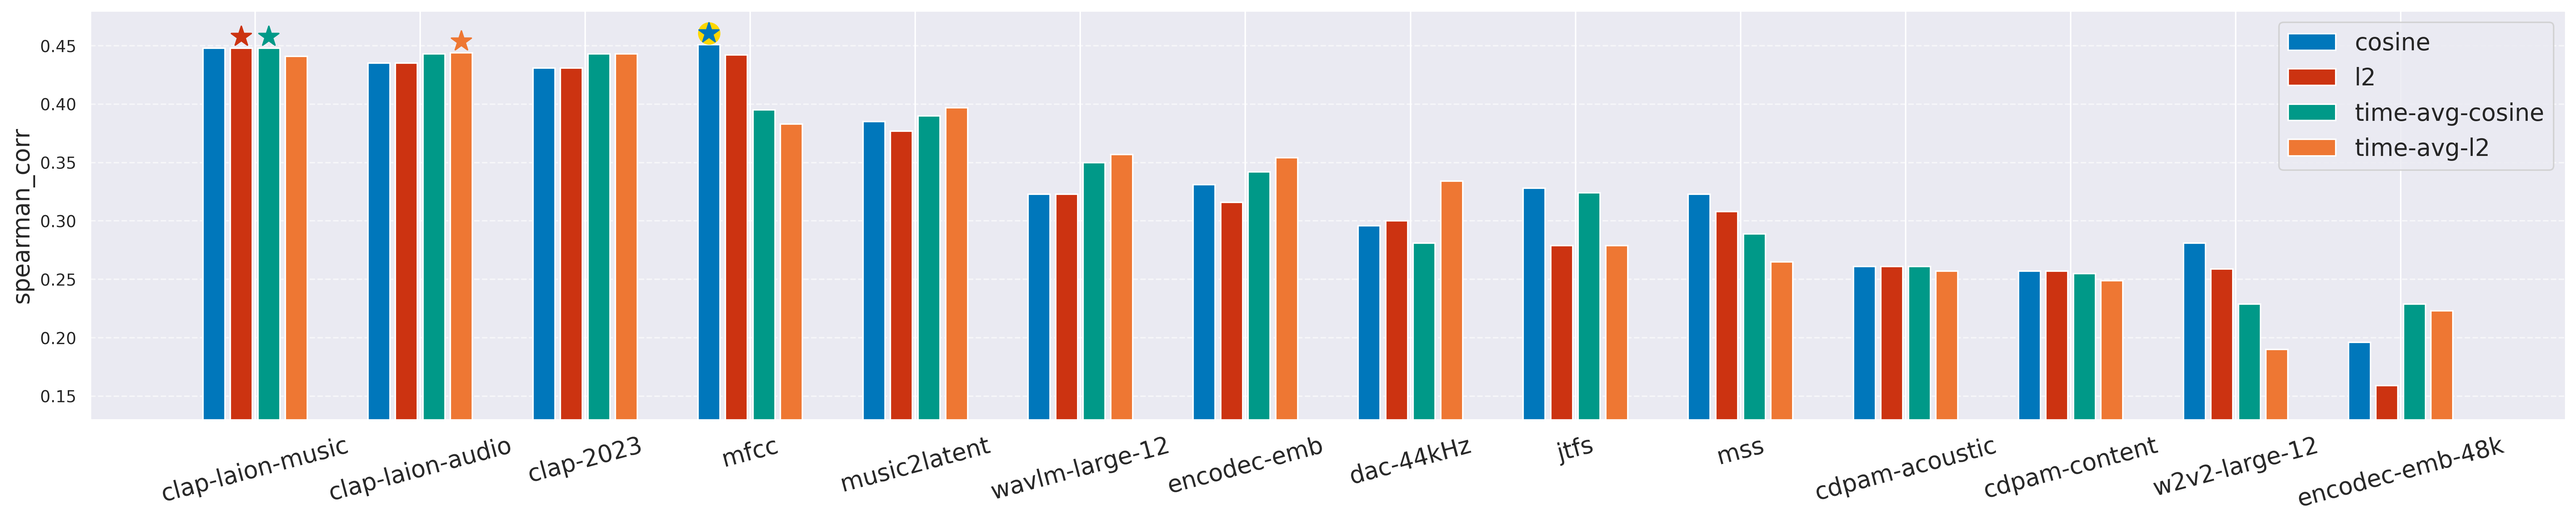
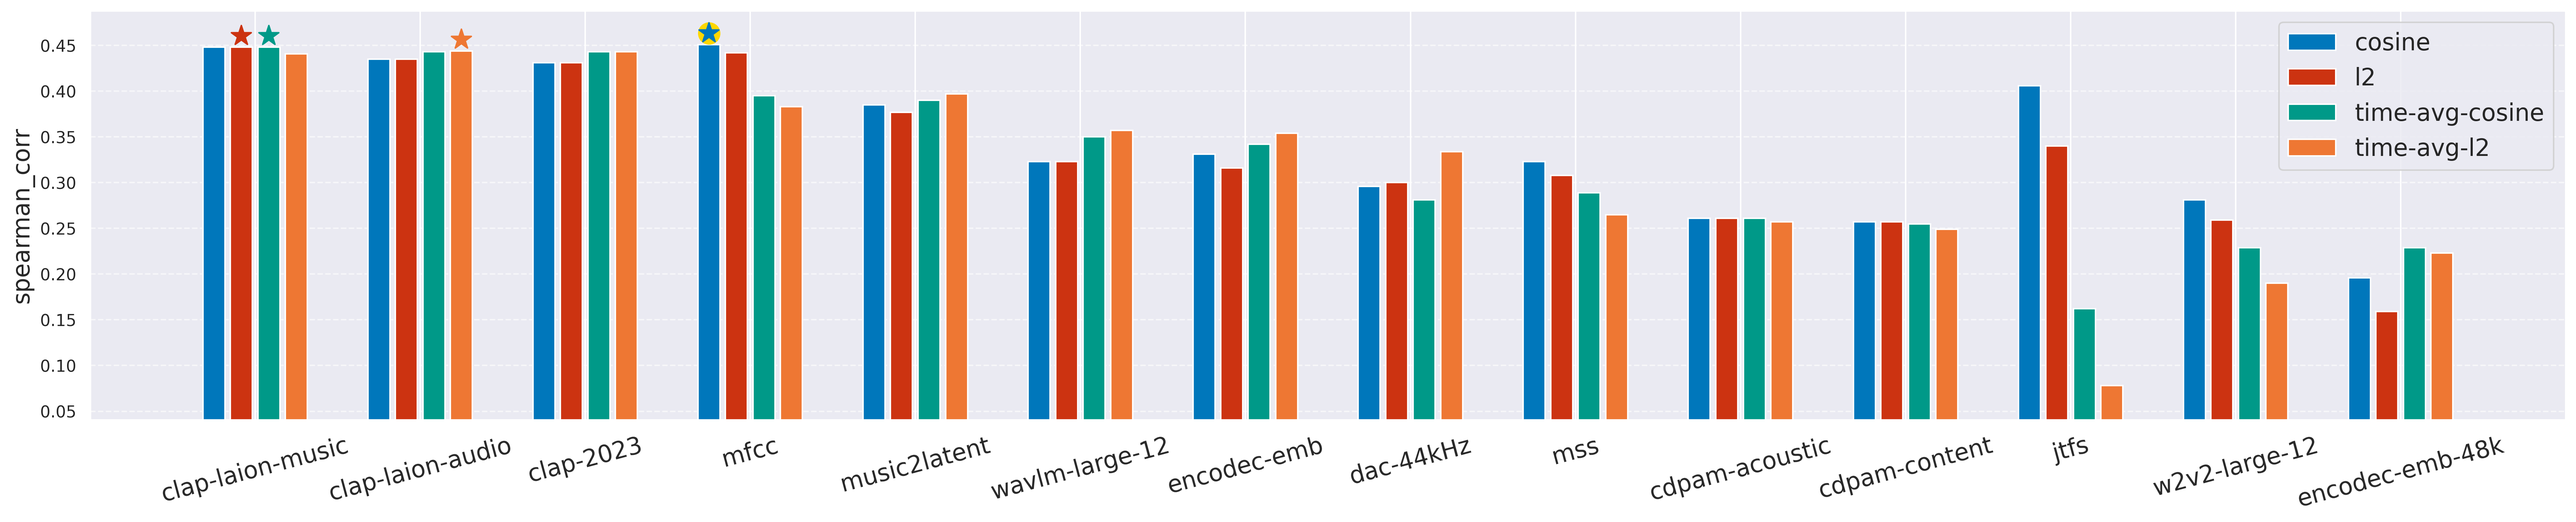
update jtfs computation

diff --git a/examples/evaluate_jtfs.py b/examples/evaluate_jtfs.py
@@ -7,47 +7,51 @@ from timbremetrics import TimbreMetric, print_results, write_results_to_yaml
 from timbremetrics.paths import BASE_DIR
 
 out_file = os.path.join(os.path.dirname(BASE_DIR), "examples/results.yaml")
-DEFAULT_SR = 44100
 
 
 class jtfs(nn.Module):
 
-    def __init__(
-        self, J, Q, J_fr, Q_fr, T, F, keep_time_dimension=False, fixed_duration=2.0
-    ):
+    def __init__(self, J, Q, J_fr, Q_fr, T, F, keep_time_dimension=False):
         super().__init__()
         class_name = self.__class__.__name__
         self.name = class_name if keep_time_dimension else f"time-avg_{class_name}"
         self.device = torch.device("cuda" if torch.cuda.is_available() else "cpu")
-        self.keep_time_dimension = keep_time_dimension
-        # fix a duration since T has to be smaller than any input lengths
-        self.fixed_duration = fixed_duration
-        self.transform = TimeFrequencyScattering(
-            shape=(int(self.fixed_duration * DEFAULT_SR),),
-            J=J,
-            Q=Q,
-            J_fr=J_fr,
-            Q_fr=Q_fr,
-            T=T,
-            F=F,
-            format="joint",
-        ).to(self.device)
+        self.J = J
+        self.Q = Q
+        self.J_fr = J_fr
+        self.Q_fr = Q_fr
+        self.T = T
+        self.F = F
+        self.cnt = 0
 
     def forward(self, audio):
-        y = self.transform(audio)
-        if not self.keep_time_dimension:
-            y = y.mean(dim=-1)
+        self.cnt += 1
+        print(f"jtfs: processing {self.cnt}-th sample")
+        N = audio.shape[-1]
+        transform = TimeFrequencyScattering(
+            shape=(N,),
+            J=self.J,
+            Q=self.Q,
+            J_fr=self.J_fr,
+            Q_fr=self.Q_fr,
+            T=self.T,
+            F=self.F,
+            format="time",
+        ).to(self.device)
+        y = transform(audio)
         return y
 
 
-model = jtfs(J=10, Q=(8, 2), J_fr=5, Q_fr=2, T=44100, F=2**4, keep_time_dimension=False)
-metric = TimbreMetric(device=model.device, fixed_duration=2.0)
+model = jtfs(
+    J=12, Q=(8, 2), J_fr=3, Q_fr=2, T="global", F=None, keep_time_dimension=False
+)
+metric = TimbreMetric(device=model.device)
 res = metric(model)
 print_results(model.name, res)
 write_results_to_yaml(out_file, model.name, res)
 
-model = jtfs(J=10, Q=(8, 2), J_fr=5, Q_fr=2, T=44100, F=2**4, keep_time_dimension=True)
-metric = TimbreMetric(device=model.device, fixed_duration=2.0)
+model = jtfs(J=12, Q=(8, 2), J_fr=3, Q_fr=2, T=None, F=None, keep_time_dimension=True)
+metric = TimbreMetric(device=model.device, pad_to_max_duration=True)
 res = metric(model)
 print_results(model.name, res)
 write_results_to_yaml(out_file, model.name, res)

diff --git a/scripts/plot_pitch_loudness_length.py b/scripts/plot_pitch_loudness_length.py
@@ -27,9 +27,9 @@ pitch = {
     "Iverson1993_Onset": [262] * 16,
     "Iverson1993_Remainder": [262] * 16,
     "Iverson1993_Whole": [262] * 16,
-    "Lakatos2000_Comb": [311] * 15, # 5 are weakly- or non-pitched
+    "Lakatos2000_Comb": [311] * 15,  # 5 are weakly- or non-pitched
     "Lakatos2000_Harm": [311] * 17,
-    "Lakatos2000_Perc": [311] * 7, # 11 are weakly- or non-pitched
+    "Lakatos2000_Perc": [311] * 7,  # 11 are weakly- or non-pitched
     "McAdams1995": [311] * 18,
     "Patil2012_A3": [220] * 11,
     "Patil2012_DX4": [294] * 11,
